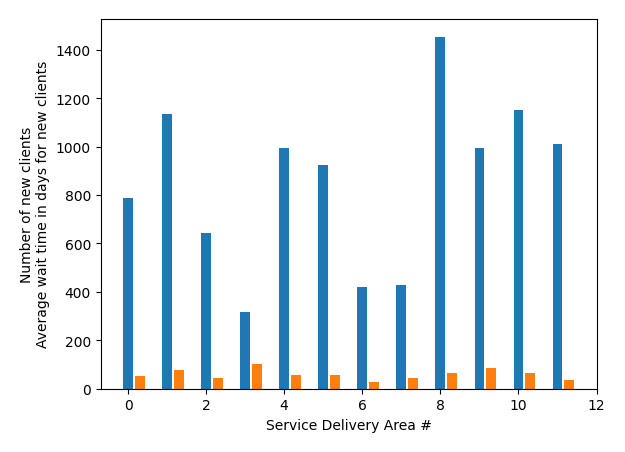
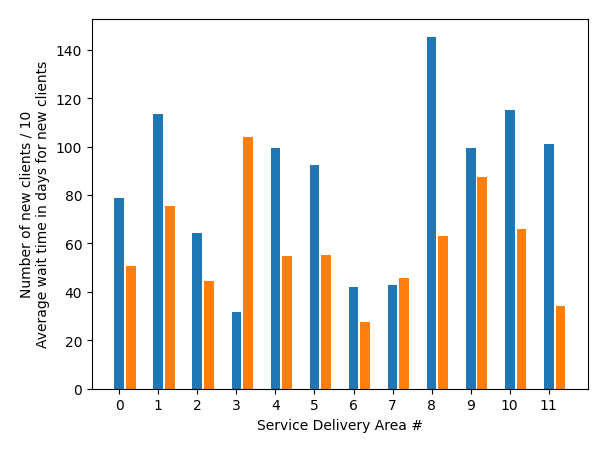
Changed plot.py to scale the number of new clients bar by a factor of 10 to make the graph more readable.

Changed region(s): [[0.3855, 0.031, 0.9786, 0.9602], [0.0297, 0.031, 0.3558, 0.9292]]

diff --git a/plot.py b/plot.py
@@ -29,10 +29,15 @@ pyplot.show()
 
 # Plot the data as a bar graph
 sdvs = data[:,0] # Service delivery areas
-bar2 = [s + 0.3 for s in sdvs]
-pyplot.bar(sdvs, x, width=0.25)
-pyplot.bar(bar2, y, width=0.25)
-pyplot.ylabel('Number of new clients\nAverage wait time in days for new clients')
+scale_factor = 10 # Factor by which we are scaling number of new clients
+x_scaled = x / scale_factor
+
+pyplot.bar(sdvs, x_scaled, width=0.25)
+pyplot.bar([s + 0.3 for s in sdvs], y, width=0.25)
+
+pyplot.ylabel('Number of new clients / 10\nAverage wait time in days for new clients')
 pyplot.xlabel('Service Delivery Area #')
+pyplot.xticks(sdvs)
+
 pyplot.savefig('./saved_images/combined_bar.png', bbox_inches='tight', pad_inches=0.2)
 pyplot.show()
